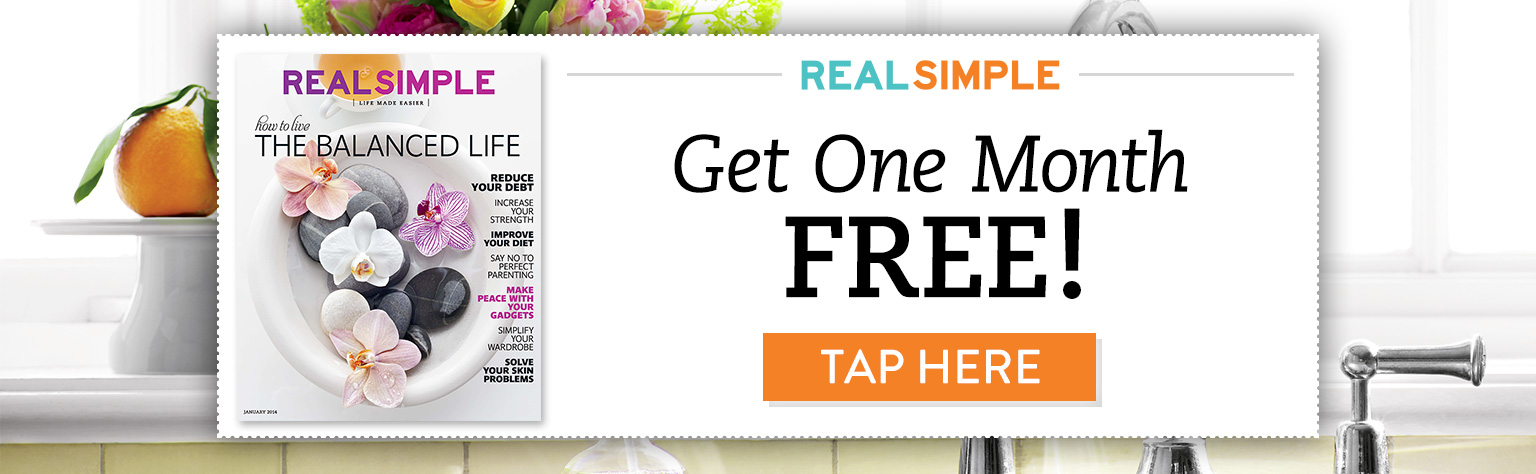
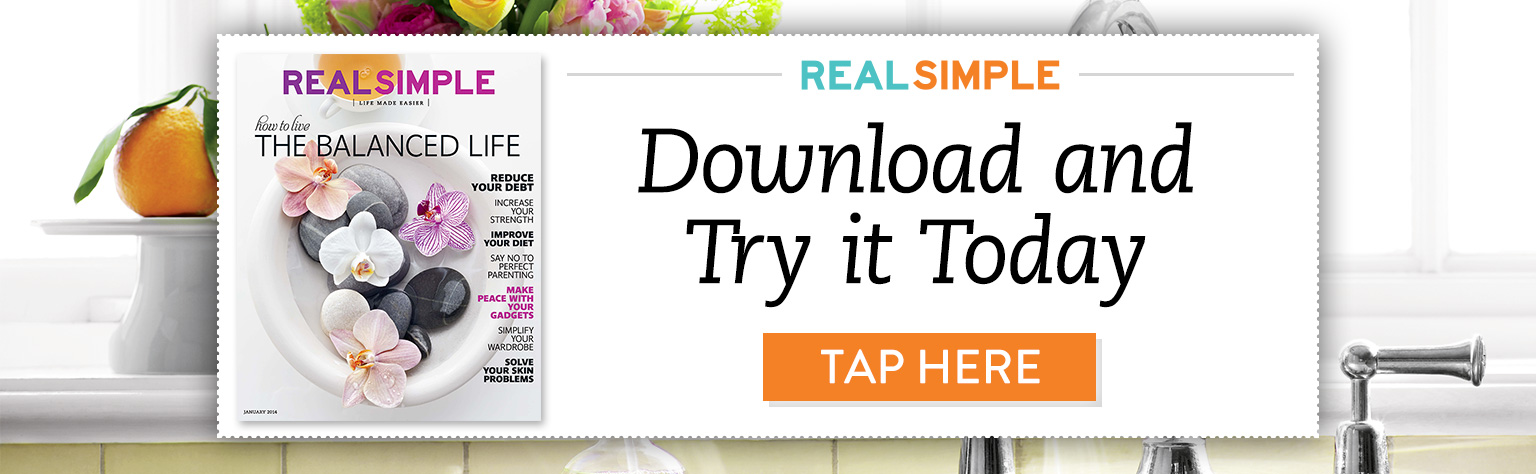
update xsell images

Changed region(s): [[0.4375, 0.443, 0.75, 0.6498], [0.4062, 0.2658, 0.7812, 0.4135]]

diff --git a/store/banners/TH/online_ipad/subs/index.html b/store/banners/TH/online_ipad/subs/index.html
@@ -86,6 +86,10 @@
           	background-image: url('logo.png') !important;
           }
           
+          .sl-xsell {
+            background-image: url('sl_xsell.portrait.jpg') !important;
+          }
+          
           .banner{                 
              height: 237px;              
           }
@@ -107,6 +111,10 @@
        @media only screen and (min-width:1024px){           
           .logo {
             background-image: url('logo.png') !important;
+          }
+          
+          .sl-xsell {
+            background-image: url('sl_xsell.landscape.jpg') !important;
           }
           
           .banner{                 
@@ -161,6 +169,10 @@
           <!-- Logo slide -->
           <div class="slide logo"></div>
           
+          <div class="slide sl-xsell" data-ios-version=">=7">
+            <a href="../../../appstore_links/goto_appstore.html?link=https://itunes.apple.com/us/app/southern-living-magazine/id473964082?mt=8"></a>
+          </div>
+          
         </div>
      </div>
    </div>
@@ -172,6 +184,10 @@
       
       var gallery = new libBanner.SlideshowGallery();
       gallery.enableTouch().slideEvery(5000);
+      
+      $(".sl-xsell").click(function() {
+        libBanner.track_user_action("Library|Banner|Subscriber", "banner_taps_slxsell");
+      });
     })();
   </script>
 
